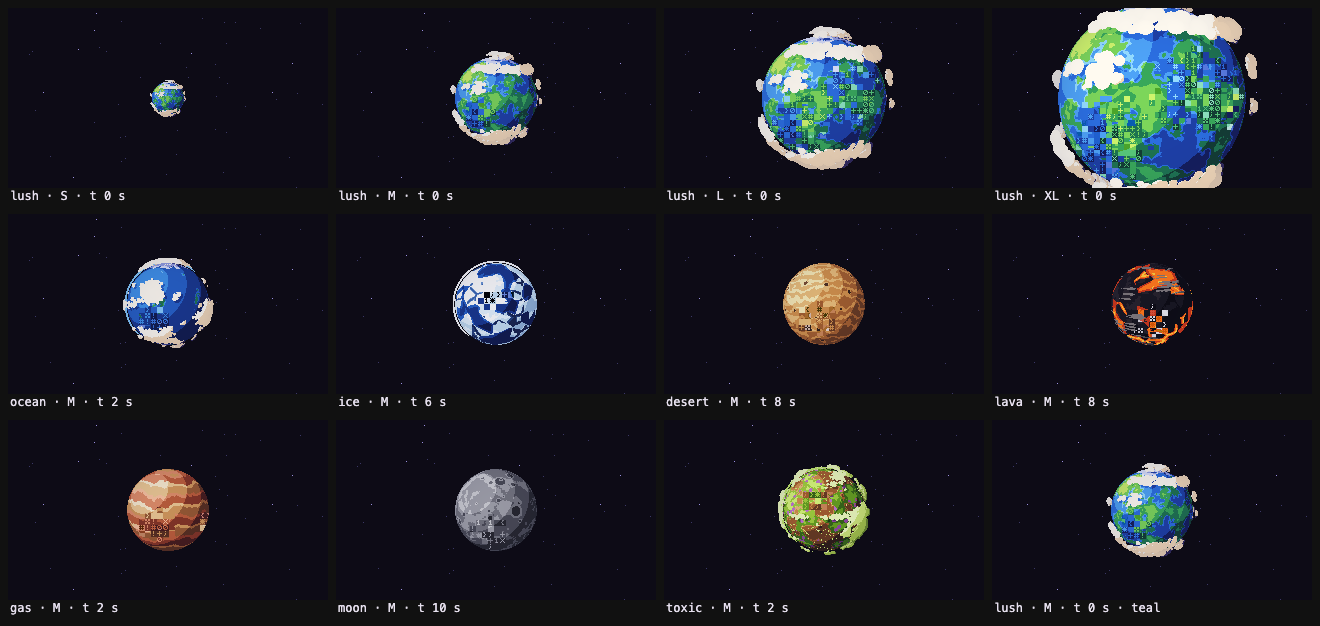
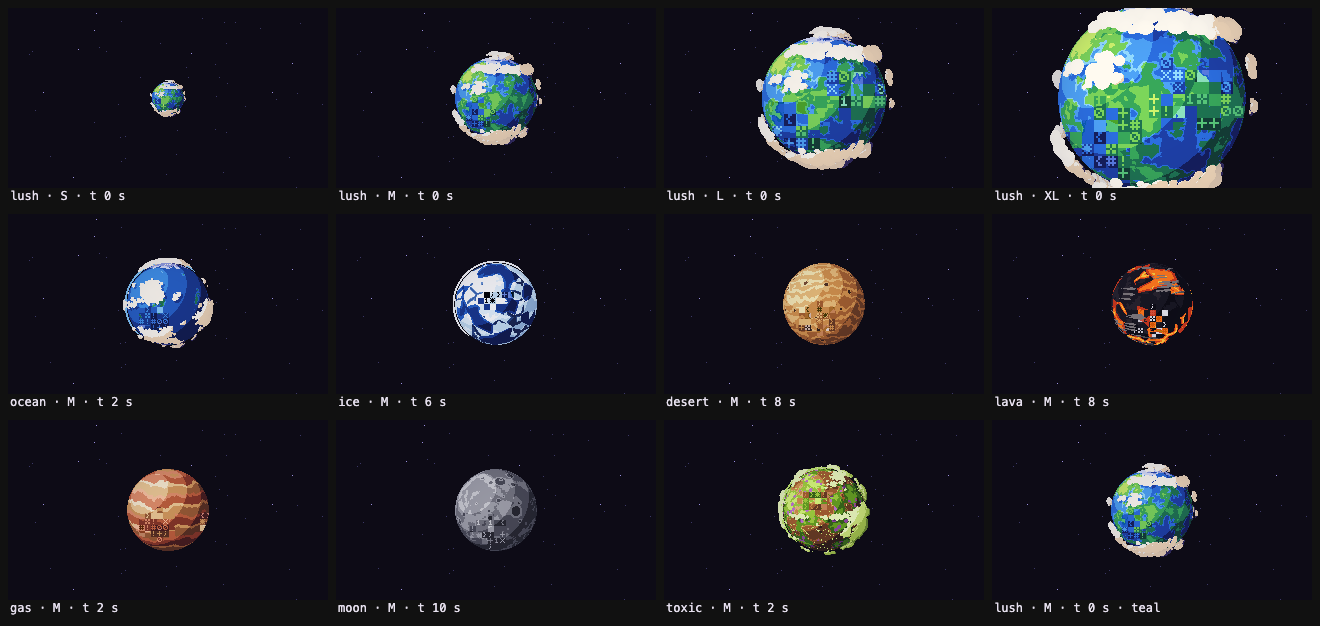
feat(mockup): clamp artefact glyph cells per sector (3-10 across)
Glyph cells were sized in screen pixels, so zooming in turned a sector into
hundreds of tiny icons (33 x 27 cells at the test's close zoom). Each sector
now spans ART_CELLS.min..max (3..10) cells across: zooming in grows the
glyph pixel in whole internal pixels (6 -> 18 px cells at 180p) instead of
adding cells, and zooming out holds a sector at 3 cells; discs too small to
hold that (< 13.5 px radius at 180p) are skipped. The default hero is
pixel-identical (checked against the unclamped shader).

An artefact debug view (viewer.set({ artDebug: true }): cell indices as
colours, row slip off) backs test/artefact-clamp.test.mjs: at far, default
and close zoom (180p and 360p) every sector's cells across are in bounds,
its rendered extent fits, cells are whole-pixel squares that grow as the
camera closes in, and an empty render fails. Re-renders artefacts.png.

Changed region(s): [[0.8076, 0.0607, 0.9629, 0.3035], [0.5591, 0.0911, 0.6833, 0.2428], [0.0932, 0.1518, 0.1242, 0.1821]]

diff --git a/mockups/asset-viewer/artefacts.js b/mockups/asset-viewer/artefacts.js
@@ -18,6 +18,10 @@
 // the terrain (lava's near-black crust) take inverted lightness so they stay legible.
 
 export const MAX_ART = 5;
+// Glyph clamp: the cells across a sector stay within these bounds at any zoom. Zooming in grows
+// each cell (in whole internal pixels per glyph pixel) instead of adding cells; zooming out never
+// shrinks a sector below `min` cells (discs under ~1.5x that width, 13.5 px radius at 180p, are skipped).
+export const ART_CELLS = { min: 3, max: 10 };
 export const ART_TICKS = 180; // per surface turn (15 ticks/s at 12 s per turn); rates 2..6 all divide it
 
 // 5x5 glyphs ('#' = ink), drawn in 6 px cells; from mockups/ascii-fx/glyphs.js.
@@ -62,6 +66,8 @@ export const ARTEFACTS_GLSL = /* glsl */ `
   uniform int uArtTeal;
   uniform vec3 uArtTealC;
   uniform vec4 uArtSec[${MAX_ART}]; // xyz = centre direction (planet frame), w = size in cells
+  uniform int uArtDebug;        // 1 = debug view (no row slip): rgb = cell x + 128, cell y + 128, sector * 50 + cells across * 4
+  const float ART_CELLS_MIN = ${ART_CELLS.min.toFixed(1)}, ART_CELLS_MAX = ${ART_CELLS.max.toFixed(1)};
   const int BUGS[10] = int[10](${BUGS.map((n) => mask(GLYPHS[n])).join(', ')});
   const int PLUS = ${mask(GLYPHS.plus)};
   float ah(vec2 q) { return fract(sin(dot(q, vec2(127.1, 311.7))) * 43758.5453); }
@@ -75,8 +81,7 @@ export const ARTEFACTS_GLSL = /* glsl */ `
     vec3 dpx = dFdx(p), dpy = dFdy(p); // to find each cell's centre on the sphere
     vec3 base = c;
     vec2 fp = vec2(gl_FragCoord.x, uViewSize.y - gl_FragCoord.y); // px, top-down
-    float k = max(1.0, floor(uViewSize.y / 180.0 + 0.5)); // glyph pixel scale: 1 at 180p, 2 at 360p
-    float cellPx = 6.0 * k;
+    float k = max(1.0, floor(uViewSize.y / 180.0 + 0.5)); // base glyph pixel scale: 1 at 180p, 2 at 360p
     float radiusPx = gRadiusPx;
     int lo = max(b - 1, 0), hi = min(b + 1, 3);
     for (int i = 0; i < ${MAX_ART}; i++) {
@@ -88,22 +93,28 @@ export const ARTEFACTS_GLSL = /* glsl */ `
       vec2 s = vec2(clip.x / clip.w + 1.0, 1.0 - clip.y / clip.w) * 0.5 * uViewSize;
       float facing = dot(normalize(mat3(modelMatrix) * dir), normalize(cameraPosition - w.xyz));
       if (facing < 0.2) continue;
-      // half-width in cells: ~half the disc across on big planets, a smaller share on small ones
-      // (down to 0.6x below ~25 px radius), so one sector never swamps a small disc
+      // natural half-width in base cells: ~half the disc across on big planets, a smaller share on
+      // small ones (down to 0.6x below ~25 px radius), so one sector never swamps a small disc
       float cells = uArtSec[i].w * radiusPx / (50.0 * k) * mix(0.6, 1.0, clamp((radiusPx - 25.0) / 35.0, 0.0, 1.0));
-      if (cells < 1.0) continue; // too small to read (distant planets)
+      if (radiusPx < ART_CELLS_MIN * 4.5 * k) continue; // the disc can't hold a ART_CELLS_MIN sector (under ~1.5x its width): too small to read
+      // glyph clamp: grow the glyph pixel g (whole px) until at most ART_CELLS_MAX cells span the
+      // sector, then hold at least ART_CELLS_MIN
+      float g = max(k, ceil(2.0 * cells * k / ART_CELLS_MAX - 1e-3));
+      cells = max(cells * k / g, ART_CELLS_MIN * 0.5);
+      float cellPx = 6.0 * g;
       float seed = float(i) * 17.3 + 3.1;
       // whole-sector row slip on a few ticks
       float slipStep = floor(float(uArtTick) / 3.0);
       vec2 rel = fp - floor(s);
-      if (ah(vec2(slipStep, seed)) > 0.8) rel.x += (floor(ah(vec2(floor(rel.y / (3.0 * k)), slipStep + seed)) * 7.0) - 3.0) * k;
+      if (uArtDebug == 0 && ah(vec2(slipStep, seed)) > 0.8) rel.x += (floor(ah(vec2(floor(rel.y / (3.0 * g)), slipStep + seed)) * 7.0) - 3.0) * g;
       ivec2 cell = ivec2(floor(rel / cellPx));
-      ivec2 lp = ivec2(floor((rel - vec2(cell) * cellPx) / k));
+      ivec2 lp = ivec2(floor((rel - vec2(cell) * cellPx) / g));
       vec2 cc = vec2(cell) + 0.5;
       vec2 hs = vec2(cells * max(facing, 0.25), cells * 0.8);
       float e = length(cc / hs);
       float rough = ah(vec2(cell) + seed);
       if (e > 0.7 + rough * 0.55) continue;
+      if (uArtDebug == 1) { c = vec3(float(cell.x) + 128.0, float(cell.y) + 128.0, float(i) * 50.0 + floor(cells * 8.0 + 0.5)) / 255.0; continue; }
       vec2 toCentre = cc * cellPx - rel; // px, top-down
       vec3 pc = normalize(p + dpx * toCentre.x - dpy * toCentre.y);
       // each cell re-rolls at its own rate (2..6 ticks, all dividing ${ART_TICKS}), so the sector simmers
@@ -119,7 +130,7 @@ export const ARTEFACTS_GLSL = /* glsl */ `
       } else if (r < 0.46) {
         c = ah(vec2(cell) + 9.1) > 0.5 ? invL(base) : surface(p, 3 - b); // invert: lightness, or the light bands
       } else if (r < 0.55) {
-        c = surface(rotY(p, (ah(vec2(floor(rel.y / (2.0 * k)), st + seed)) - 0.5) * 0.6), b); // tear
+        c = surface(rotY(p, (ah(vec2(floor(rel.y / (2.0 * g)), st + seed)) - 0.5) * 0.6), b); // tear
       } else {
         int g = BUGS[int(ah(vec2(cell) * 2.3 + st) * 10.0)];
         if (!core && r > 0.85) g = PLUS;

diff --git a/mockups/asset-viewer/viewer.js b/mockups/asset-viewer/viewer.js
@@ -824,7 +824,7 @@ function makePlanet() {
     uSeedOff: { value: new THREE.Vector3() }, uSea: { value: 0.5 }, uPoolCut: { value: 9 }, uRegions: { value: 0 },
     uBands: { value: new THREE.Vector3(0.2, 0.58, 0.86) }, // lit directional terminator, crescent bands
     // artefacts (artefacts.js): off while uArtN = 0
-    uArtN: { value: 0 }, uArtTick: { value: 0 }, uArtTeal: { value: 0 }, uArtTealC: { value: new THREE.Color(ACCENTS.reveal[3]) }, // [OIII] teal, garnish only
+    uArtN: { value: 0 }, uArtTick: { value: 0 }, uArtTeal: { value: 0 }, uArtDebug: { value: 0 }, uArtTealC: { value: new THREE.Color(ACCENTS.reveal[3]) }, // [OIII] teal, garnish only
     uArtSec: { value: Array.from({ length: MAX_ART }, () => new THREE.Vector4(0, 0, 1, 4)) }, uViewSize: VIEW_SIZE,
   });
   const spin = new THREE.Group(); // the surface turns surfaceTurns per loop
@@ -1125,8 +1125,9 @@ function makePlanet() {
   }
   // artefacts: 0 = off, 1..5 = that many sectors, 'auto' = by planet size (artefactCount).
   let artefactsOpt = 0;
-  function setExtras({ moons = false, halo: showHalo = false, artefacts = 0, teal = false, cloudShadow = true, regions = false } = {}) {
+  function setExtras({ moons = false, halo: showHalo = false, artefacts = 0, teal = false, cloudShadow = true, regions = false, artDebug = false } = {}) {
     surfaceMat.uniforms.uRegions.value = regions ? 1 : 0;
+    surfaceMat.uniforms.uArtDebug.value = artDebug ? 1 : 0;
     for (const m of MOONS) m.mesh.visible = moons;
     shadowMat.visible = cloudShadow;
     halo.visible = showHalo;
@@ -1521,6 +1522,7 @@ const state = {
   artefacts: false, artAuto: true, artCount: 3, artTeal: false, // planet artefacts (artefacts.js); artAuto: sector count by planet size
   cover: null, // cloud-cover override (0..1) for the hero planets; null = the biome's WEATHER cover
   regions: false, // debug (measurement only): planet surfaces as ground / crack / open-plate colours
+  artDebug: false, // debug (measurement only): artefact cells as cell-index colours (artefacts.js uArtDebug)
 };
 
 // Keep the orbit camera out of the cloud layer in planet views (clouds reach ~1.1 R).
@@ -1560,7 +1562,7 @@ function applyState() {
   LOOP.period = Math.max(1, state.period);
   LOOP.surfaceTurns = Math.max(1, Math.round(state.surfaceTurns));
   LOOP.cloudTurns = Math.max(0, Math.round(state.cloudTurns));
-  const art = { artefacts: !state.artefacts ? 0 : state.artAuto ? 'auto' : state.artCount, teal: state.artTeal, cloudShadow: state.cloudShadow, regions: state.regions };
+  const art = { artefacts: !state.artefacts ? 0 : state.artAuto ? 'auto' : state.artCount, teal: state.artTeal, cloudShadow: state.cloudShadow, regions: state.regions, artDebug: state.artDebug };
   document.getElementById('art-auto').checked = state.artAuto;
   planets.forEach((p, i) => p.setExtras({ moons: i === 0 && state.moons, halo: state.halo, ...art }));
   SYSTEM.forEach((p, i) => p.setExtras({ moons: i === 0 && state.moons, halo: state.halo, ...art }));

diff --git a/mockups/asset-viewer/README.md b/mockups/asset-viewer/README.md
@@ -12,7 +12,7 @@ npm run dev      # http://127.0.0.1:5180/  (loopback only; PORT=... to change)
 npm run shots    # re-capture screenshots/ in headless Chromium (no server, no network)
 npm run palettes # 25 Lospec-palette renders + labelled contact sheet in screenshots/palettes/
 npm run planets  # variety sheet, system shot, hero-loop.gif, artefacts-loop.gif, cloud-drift-24s/36s.gif, colour counts + loop-seam tests
-npm test         # cloud regression tests: puff handedness (det > 0), hollow-ring renders (32 framings + 12 hero-loop frames; LOOP_FRAMES=48 for all), shading direction (follows the mass dome), CPU/GPU simplex, Voronoi-cell and pool-field parity; artefacts: off = pixel-identical, on = visible, deterministic, loop-locked; cloud shadow: no phantoms, drifts with the clouds; depth: object mode unchanged, pixel-stepped splits a straddling planet; lava/ice line width ≥ 2 px and a ground / crack / open mix; rings: width × distance sweep (chunky share, bounds, density, moons), front arc over the disc, 1 px dust, loop-locked
+npm test         # cloud regression tests: puff handedness (det > 0), hollow-ring renders (32 framings + 12 hero-loop frames; LOOP_FRAMES=48 for all), shading direction (follows the mass dome), CPU/GPU simplex, Voronoi-cell and pool-field parity; artefacts: off = pixel-identical, on = visible, deterministic, loop-locked, 3–10 cells across a sector at any zoom; cloud shadow: no phantoms, drifts with the clouds; depth: object mode unchanged, pixel-stepped splits a straddling planet; lava/ice line width ≥ 2 px and a ground / crack / open mix; rings: width × distance sweep (chunky share, bounds, density, moons), front arc over the disc, 1 px dust, loop-locked
 ```
 
 `node shots.mjs depth-scene crew-closeup` captures just the named shots.
@@ -53,7 +53,7 @@ npm test         # cloud regression tests: puff handedness (det > 0), hollow-rin
 - **Ring**: clustered chunky debris (≥ 70% 2×2 and plus clumps, the rest 1 px dust; every dot is exactly 1 internal pixel at every resolution). Points in the planet's shadow use the darkest ring colour. Geometry comes from two data values, **width** and **distance** (`ringLanes()`): up to width 0.3 the ring is one lane; past it a gap opens between an inner and an outer lane (a Cassini-style division, 0.2 / 0.72 of the width at 0.72). Clusters scale with each lane's area (the thin ring's 15 clusters per its area), so density is the same at any size. The thin preset (0.22 at 1.69) is the previous default ring exactly; the wide preset (0.72 at 1.54) keeps the old lanes (1.54–1.78 and 1.98–2.26) at the same density, so its lanes now have 15 and 22 clusters instead of 22 and 18. When the ring is pushed past 1.69, the moon orbits scale out by `distance / 1.69`, so they keep their place relative to the ring. `npm test` (`test/rings.test.mjs`) sweeps the sliders (chunky share, bounds, density, moons) and renders: the front arc over the disc, no back arc over it, 1 px dust at 180p and 360p, and a seamless loop.
 - **Astronaut**: one signed-distance body, raymarched inside a proxy box and composited with `gl_FragDepth`. It's made from primitives in chibi proportions: a helmet sphere (about the top 55%), a short torso, a rounded-box torso, a backpack wider than the torso, mitts and boots. Each arm and leg is one continuous bent tube (shoulder→elbow→wrist, hip→knee→ankle), smooth-unioned so the bend has no seam. Elbows and knees are softly bent, and they flex with the idle bob. Because it is one surface, one lighting pass shades the whole body. Cast shadows (arm on torso, helmet on shoulders) and contact occlusion come from marching the same field toward the light, then snapping to the 4-step suit ramp. The suit is a cool white. The visor is a ~4:3 rounded-rect "screen" (a superellipse in yaw and pitch) with a gear-tone bezel, in two near-black blue tones plus a fixed 3 px monitor-style glint in the screen's top-left corner, clear of the face. **Contributor colour** is on the backpack stripe and a band around each upper arm (shoulder bands), so it's readable from any angle.
 - **Faces** (`faces.js`): the ApprenticeHack Avatar V2 eye designs, eyes only. There are 10: dots, cyclops, visor slit, binocular, three eyes, happy, LED bar, heartbeat, slant and X eyes. They are evaluated **analytically per fragment** as 2D SDFs in visor-screen space (`EYES_GLSL`, inside the astronaut shader), so they are resolution-independent: the normal internal-resolution render pixelates them like the rest of the model. Geometry follows `js/avatar-v2.js`: `s` is a 32×24 screen box and `e = min(s.h, s.w*0.5)*1.12`, with the same offsets, radii and round-cap strokes. Eyes are centred on the 4:3 screen and glow, unlit, in the contributor colour; pupils (cyclops, binocular) cut back to the visor colour. One deviation: `happy` uses a thinner stroke (e*0.11) than the source. The design comes from ApprenticeHack's `hashStr(handle + 'e')`: `@caden` gets visor slit, `@mira` gets dots and `@juno` gets X eyes. Each astronaut blinks every ~4.3 s with a quick, staggered Y-squash (`uBlink`). A small fixed glint sits in the screen's top-left corner, clear of the eyes.
-- **Artefacts** (`artefacts.js`, ported from the ASCII FX round 2 pick, concept 3 "planet artefacts" in its filter form; `feature/ascii-fx` 29c64a1): `ARTEFACTS_GLSL` runs inside the planet surface shader, whose colour is now a `surface(p, band)` function. Sectors are fixed directions in the planet's own frame, so they turn with it and pass under the clouds. Each sector is a screen-aligned grid of 6 px glyph cells (×2 at 360p) anchored at its projected centre, squashed by how much it faces the camera. Every cell calls `surface()` again: a bug glyph in the terrain's inverted lightness on a darker band, a flat terrain block, terrain moshed in from elsewhere, flipped light bands, or torn rows. Changes from the reference: projection, sector size and cell scale are worked out in the shader, so it works for any planet and camera (planets under 12 px radius are skipped); sector longitudes step by the golden angle so one usually faces the camera; and a glyph that would vanish into its band (lava's near-black crust) switches to inverted lightness, so lava stays legible. Glitches re-roll on a loop-locked tick (180 per surface turn; every per-cell rate, 2–6 ticks, divides it). With artefacts off the output is pixel-identical to the shader without them (`npm test`).
+- **Artefacts** (`artefacts.js`, ported from the ASCII FX round 2 pick, concept 3 "planet artefacts" in its filter form; `feature/ascii-fx` 29c64a1): `ARTEFACTS_GLSL` runs inside the planet surface shader, whose colour is now a `surface(p, band)` function. Sectors are fixed directions in the planet's own frame, so they turn with it and pass under the clouds. Each sector is a screen-aligned grid of 6 px glyph cells (×2 at 360p) anchored at its projected centre, squashed by how much it faces the camera. **Glyph clamp** (`ART_CELLS`, 3–10): a sector always spans 3 to 10 cells across. Zooming in grows the glyph pixel by whole internal pixels (6, 12, 18 px cells…) instead of adding cells, and zooming out holds a sector at 3 cells; discs too small to hold that (under 13.5 px radius at 180p) are skipped. Without the clamp, the very close zoom in `test/artefact-clamp.test.mjs` drew a 33 × 27 grid of 6 px cells; now it draws about 10 × 9 cells of 18 px (36 px at 360p). The default hero is pixel-identical. That test reads the shader's artefact debug view (`viewer.set({ artDebug: true })`: each cell painted with its index, row slip off) at far, default and very close zoom (180p and 360p), and checks the bounds, the rendered extent and whole-pixel square cells. Every cell calls `surface()` again: a bug glyph in the terrain's inverted lightness on a darker band, a flat terrain block, terrain moshed in from elsewhere, flipped light bands, or torn rows. Changes from the reference: projection, sector size and cell scale are worked out in the shader, so it works for any planet and camera (planets too small for a 3-cell sector are skipped); sector longitudes step by the golden angle so one usually faces the camera; and a glyph that would vanish into its band (lava's near-black crust) switches to inverted lightness, so lava stays legible. Glitches re-roll on a loop-locked tick (180 per surface turn; every per-cell rate, 2–6 ticks, divides it). With artefacts off the output is pixel-identical to the shader without them (`npm test`).
 - **Depth darkening**: each whole object picks one of four levels from its camera distance (switch points at 12, 26 and 44). Its ramps are swapped for precomputed steps: `lerp(colour, #1b1f4a, 0 / 0.38 / 0.72)`, then `lerp(colour, #17172f, 0.88)` for the last step. That gives about -35% value at mid, about -70% far, and a dark navy silhouette with a faint hint of colour furthest out. The silhouette tint sits a touch above the near-black space so it still reads. Every step is a fixed palette colour; there are no gradients. **Depth mode** (`DEPTH_MODES`, viewer control): `pixel-smooth` (**default**, the human's pick) grades continuously per pixel on log distance from 5 to 44 through the palette's depth steps, so distance reads across every planet. `pixel-stepped` picks the level per fragment from its own camera distance, with the same thresholds, tints and strengths, so a planet, ring, cloud layer or astronaut that straddles a threshold shows its near part at the nearer level with a crisp pixel edge (a big planet's limb vs its centre, a ring's far arc vs its near arc). `object` is the original per-object fade (ramps pre-faded on the CPU; pixel-identical to 735b3b5). `levels` paints each fragment in its level colour (red, green, blue, yellow) for debugging. Every fading shader (surface, artefacts, clouds, cloud shadow, ring, moons, haze, halo, astronauts) calls the same `depthFade()` (`DEPTH_GLSL`); the thresholds are `DEPTH_RANGES` and the strengths come from the palette's `depth` table. Lava glow fades at half strength, so a far lava world still glows. In the pixel modes, Lospec palettes are lerped but not snapped back onto their own colours (snapping is per object only). **Depth bands** (`DEPTH_BANDS`, viewer control, per-pixel modes only): `3-band` (default, the original thresholds), `6-band` and `8-band` (levels on geometric thresholds from 6 to 44, thin near and wide far, interpolating the palette's 4 steps for the same overall strength range). pixel-smooth grades on log distance from 5 to 44. `screenshots/depth-options-sheet.png` compares object, 3-, 6-, 8-band and smooth across the depth scene, system and hero frames; `planets/depth-6band.gif`, `depth-8band.gif` and `depth-smooth.gif` are 6 s system-view loops.
 
 ## Palette
